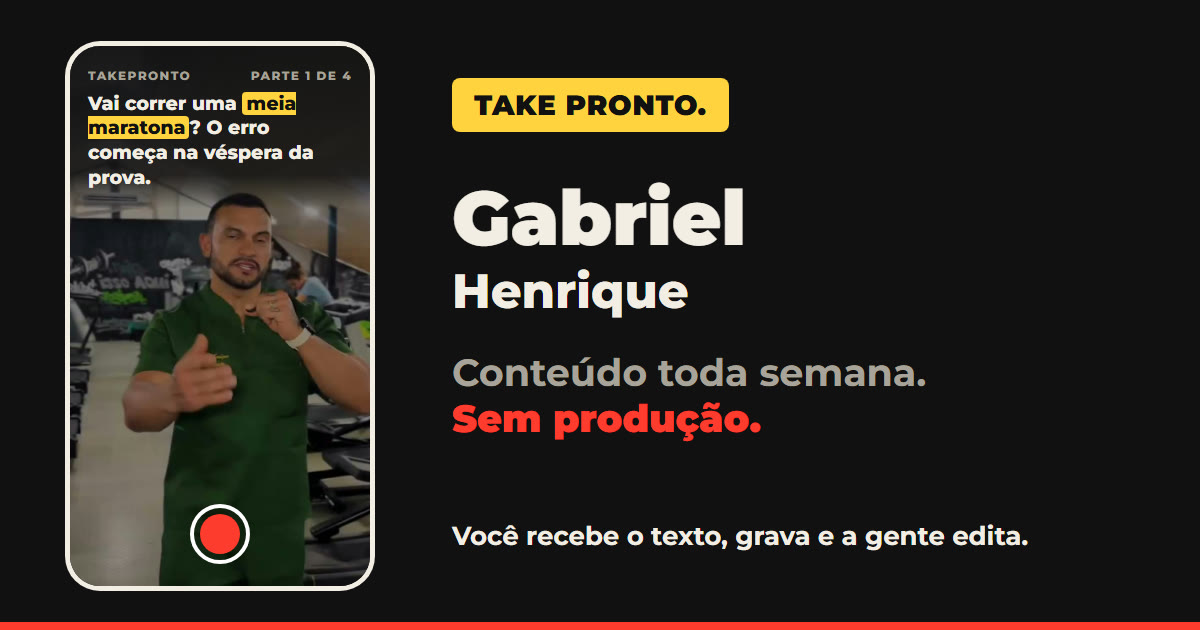
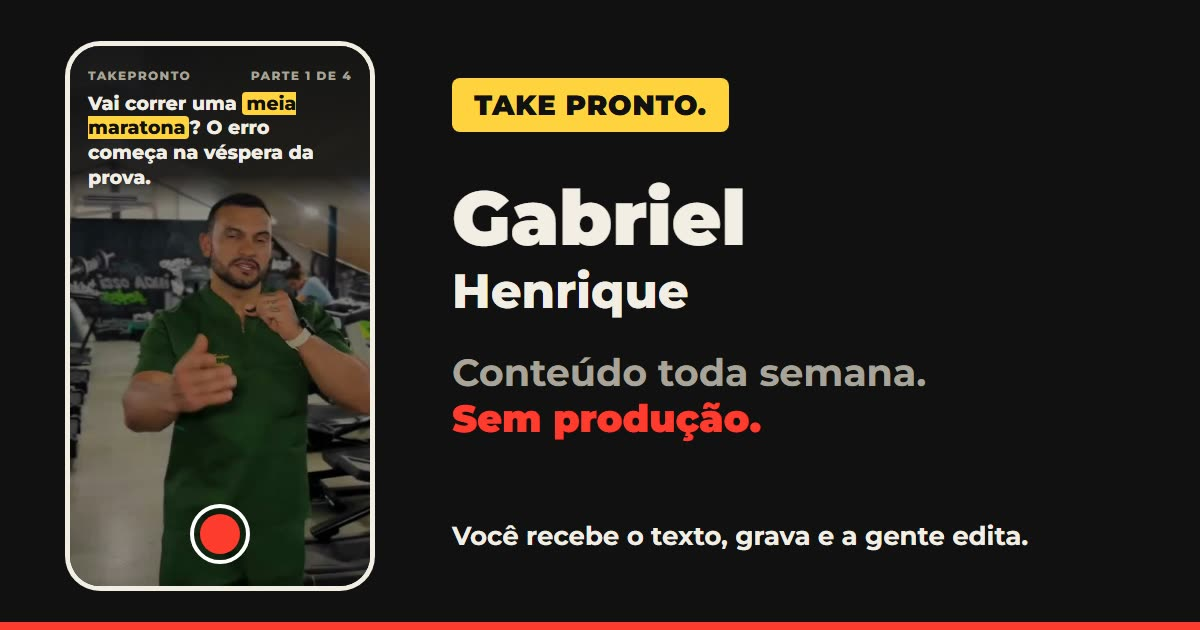
Gabriel Henrique: cartão em JPEG 4:2:0 (v=2), link curto /gabriel-nutri/ e og:url com barra final

diff --git a/gabriel-nutri/index.html b/gabriel-nutri/index.html
@@ -1,0 +1,28 @@
+<!doctype html>
+<html lang="pt-BR">
+<head>
+<meta charset="utf-8">
+<meta name="viewport" content="width=device-width,initial-scale=1">
+<meta name="robots" content="noindex,nofollow">
+<title>Gabriel Henrique · TakePronto</title>
+<meta name="description" content="Você recebe o texto, grava pelo celular e a gente edita.">
+<meta property="og:title" content="Gabriel Henrique · Conteúdo toda semana, sem produção">
+<meta property="og:description" content="Você recebe o texto, grava pelo celular e a gente edita. Toque para ver. · TakePronto">
+<meta property="og:type" content="website">
+<meta property="og:site_name" content="TakePronto">
+<meta property="og:url" content="https://takepronto.com.br/gabriel-nutri/">
+<meta property="og:image" content="https://takepronto.com.br/midia/gabriel/cartao-gabriel.jpg?v=2">
+<meta property="og:image:secure_url" content="https://takepronto.com.br/midia/gabriel/cartao-gabriel.jpg?v=2">
+<meta property="og:image:type" content="image/jpeg">
+<meta property="og:image:width" content="1200">
+<meta property="og:image:height" content="630">
+<meta property="og:image:alt" content="Página da TakePronto para o Gabriel Henrique">
+<meta property="og:locale" content="pt_BR">
+<meta name="twitter:card" content="summary_large_image">
+<meta name="twitter:image" content="https://takepronto.com.br/midia/gabriel/cartao-gabriel.jpg?v=2">
+<meta http-equiv="refresh" content="0; url=/gabriel-henrique/">
+<style>html,body{margin:0;height:100%;background:#05080f;color:#94a3b8;font:600 15px system-ui,-apple-system,sans-serif;display:grid;place-items:center}</style>
+<script>location.replace("/gabriel-henrique/");</script>
+</head>
+<body>Abrindo…</body>
+</html>

diff --git a/gabriel-henrique/index.html b/gabriel-henrique/index.html
@@ -12,15 +12,15 @@
 <meta property="og:title" content="Gabriel Henrique · Conteúdo toda semana, sem produção">
 <meta property="og:description" content="Você recebe o texto, grava pelo celular e a gente edita.">
 <meta property="og:url" content="https://takepronto.com.br/gabriel-henrique/">
-<meta property="og:image" content="https://takepronto.com.br/midia/gabriel/cartao-gabriel.jpg?v=1">
-<meta property="og:image:secure_url" content="https://takepronto.com.br/midia/gabriel/cartao-gabriel.jpg?v=1">
+<meta property="og:image" content="https://takepronto.com.br/midia/gabriel/cartao-gabriel.jpg?v=2">
+<meta property="og:image:secure_url" content="https://takepronto.com.br/midia/gabriel/cartao-gabriel.jpg?v=2">
 <meta property="og:image:type" content="image/jpeg">
 <meta property="og:image:width" content="1200">
 <meta property="og:image:height" content="630">
 <meta property="og:image:alt" content="Página da TakePronto para o Gabriel Henrique">
 <meta property="og:locale" content="pt_BR">
 <meta name="twitter:card" content="summary_large_image">
-<meta name="twitter:image" content="https://takepronto.com.br/midia/gabriel/cartao-gabriel.jpg?v=1">
+<meta name="twitter:image" content="https://takepronto.com.br/midia/gabriel/cartao-gabriel.jpg?v=2">
 <link rel="preconnect" href="https://fonts.googleapis.com"><link rel="preconnect" href="https://fonts.gstatic.com" crossorigin>
 <link href="https://fonts.googleapis.com/css2?family=Archivo+Black&family=Space+Grotesk:wght@400;500;700&display=swap" rel="stylesheet">
 <style>

diff --git a/gabriel-vespera-da-prova/index.html b/gabriel-vespera-da-prova/index.html
@@ -10,7 +10,7 @@
 <meta property="og:description" content="Roteiro pronto para gravar pelo celular. Toque para abrir. · TakePronto">
 <meta property="og:type" content="website">
 <meta property="og:site_name" content="TakePronto">
-<meta property="og:url" content="https://takepronto.com.br/gabriel-vespera-da-prova">
+<meta property="og:url" content="https://takepronto.com.br/gabriel-vespera-da-prova/">
 <meta property="og:image" content="https://takepronto.com.br/midia/cartao.jpg?v=3">
 <meta property="og:image:secure_url" content="https://takepronto.com.br/midia/cartao.jpg?v=3">
 <meta property="og:image:type" content="image/jpeg">
